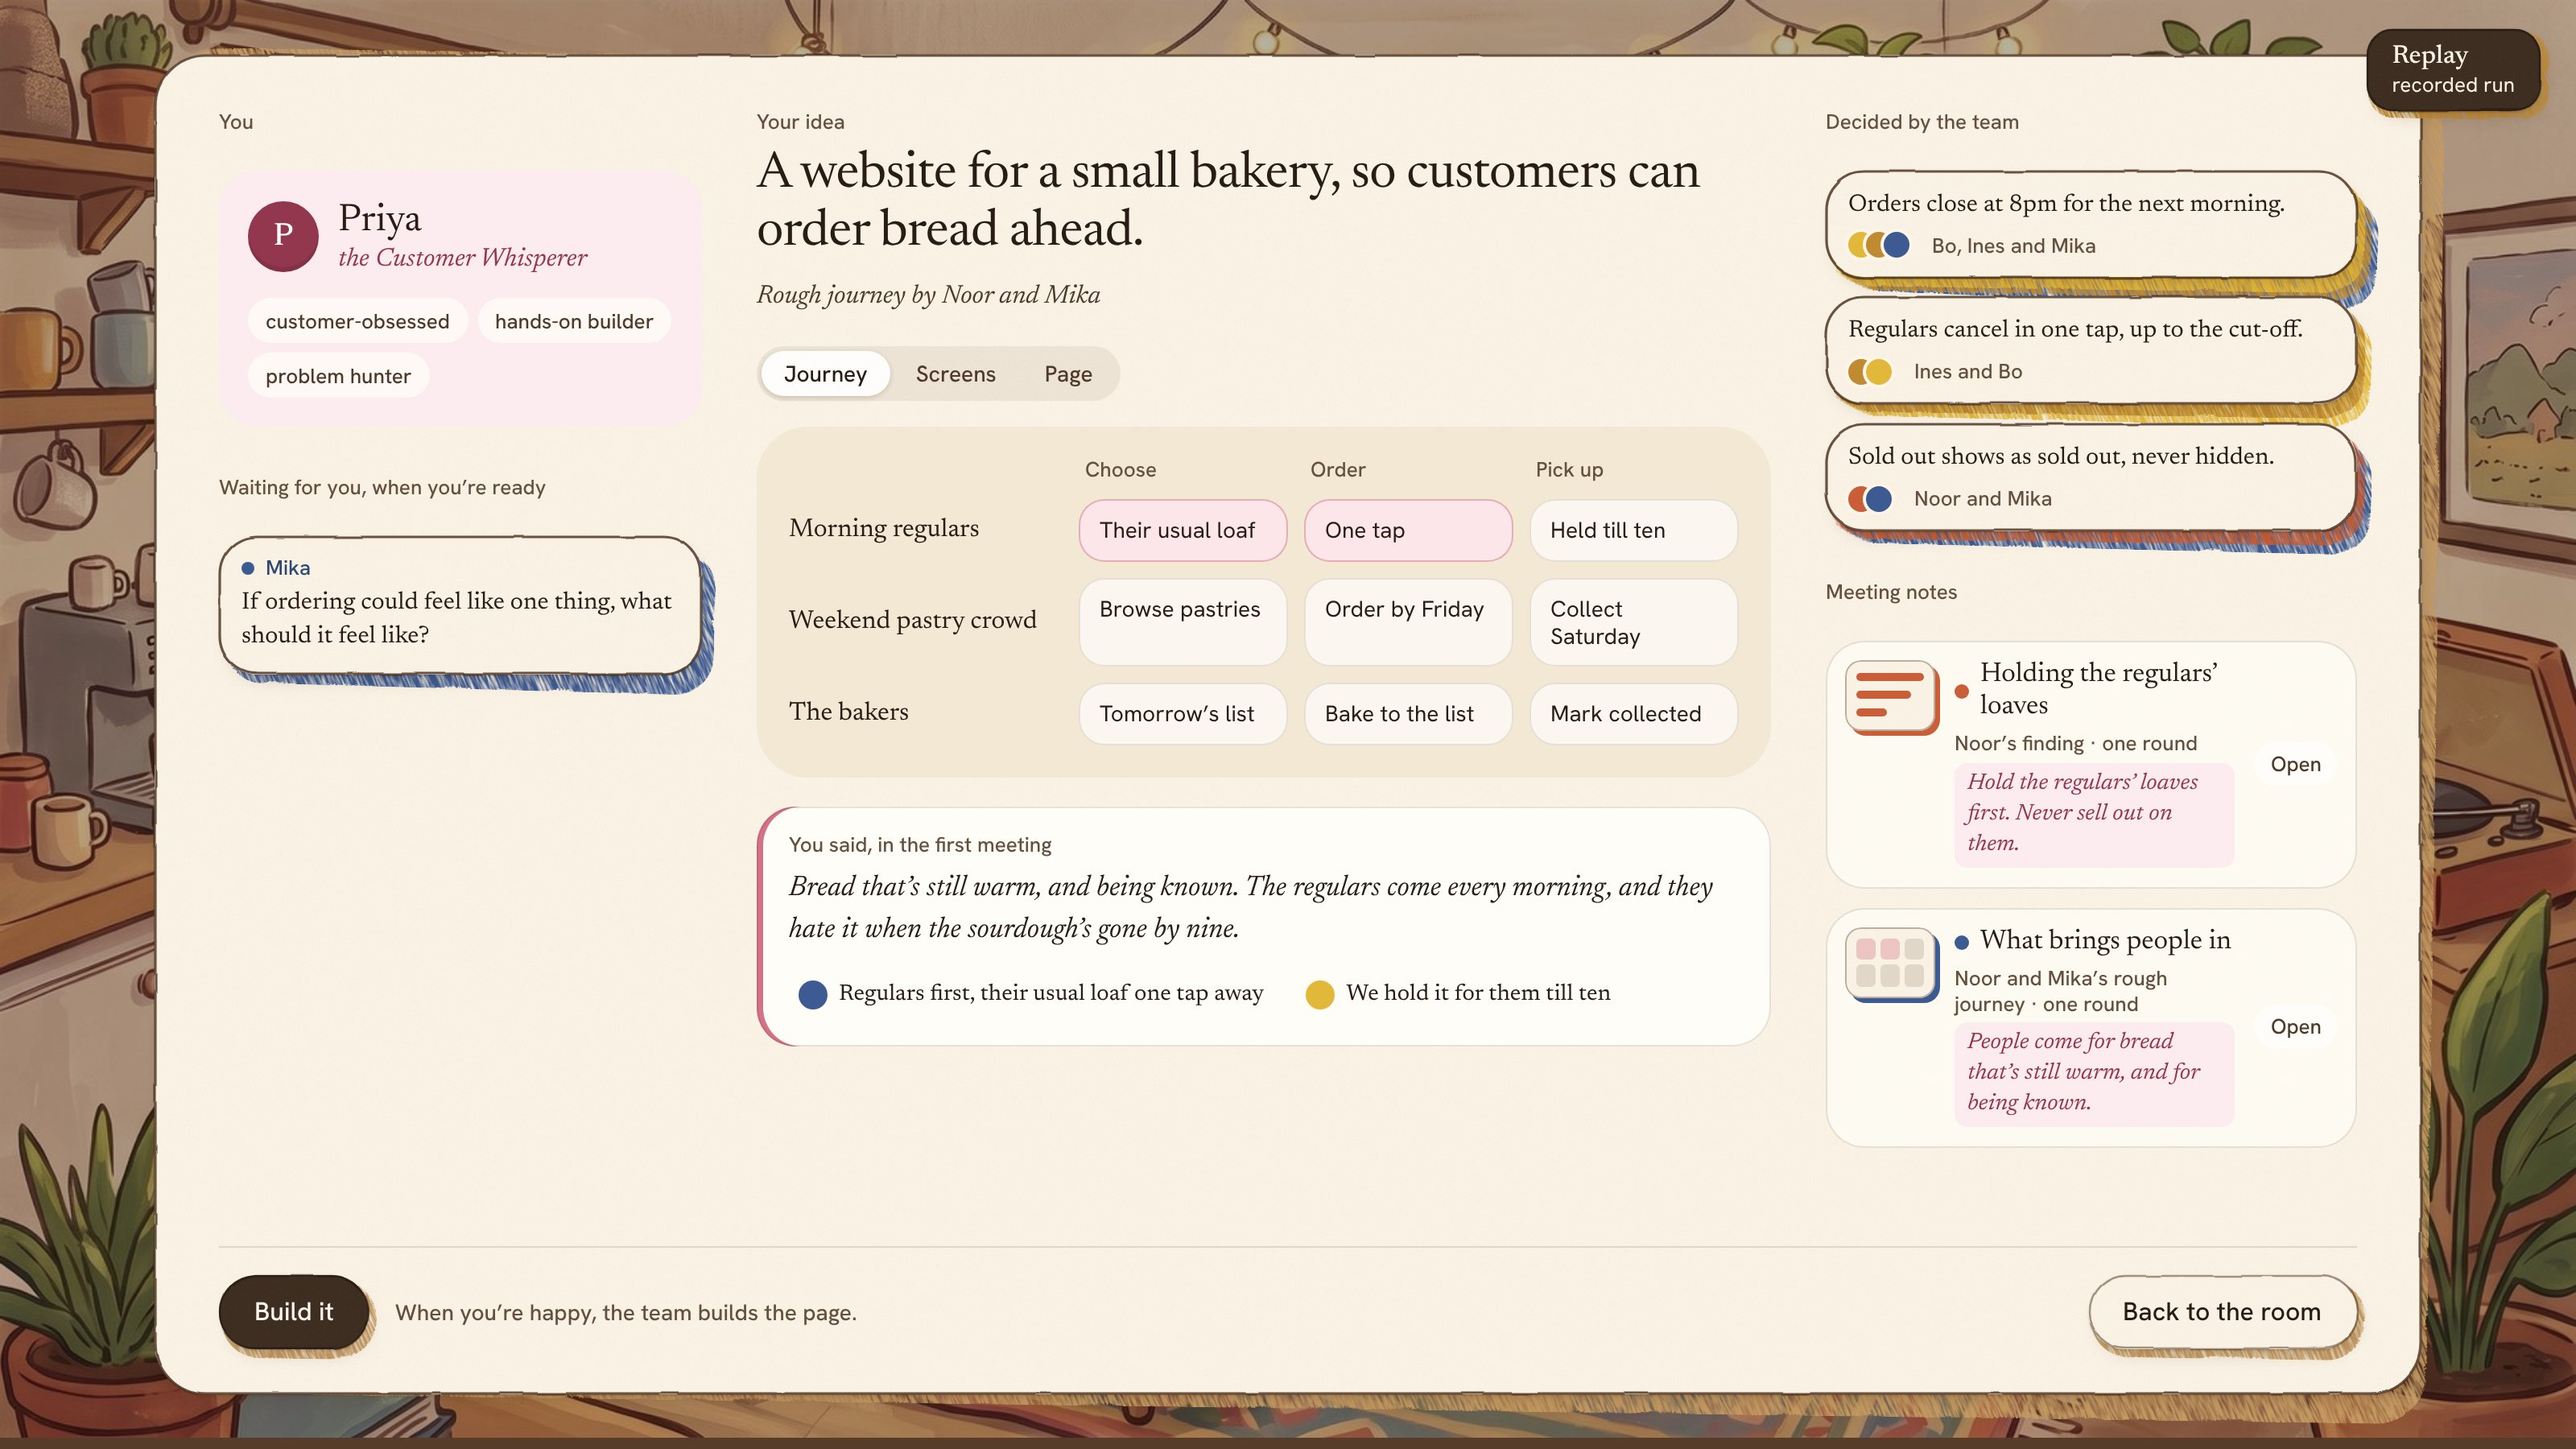
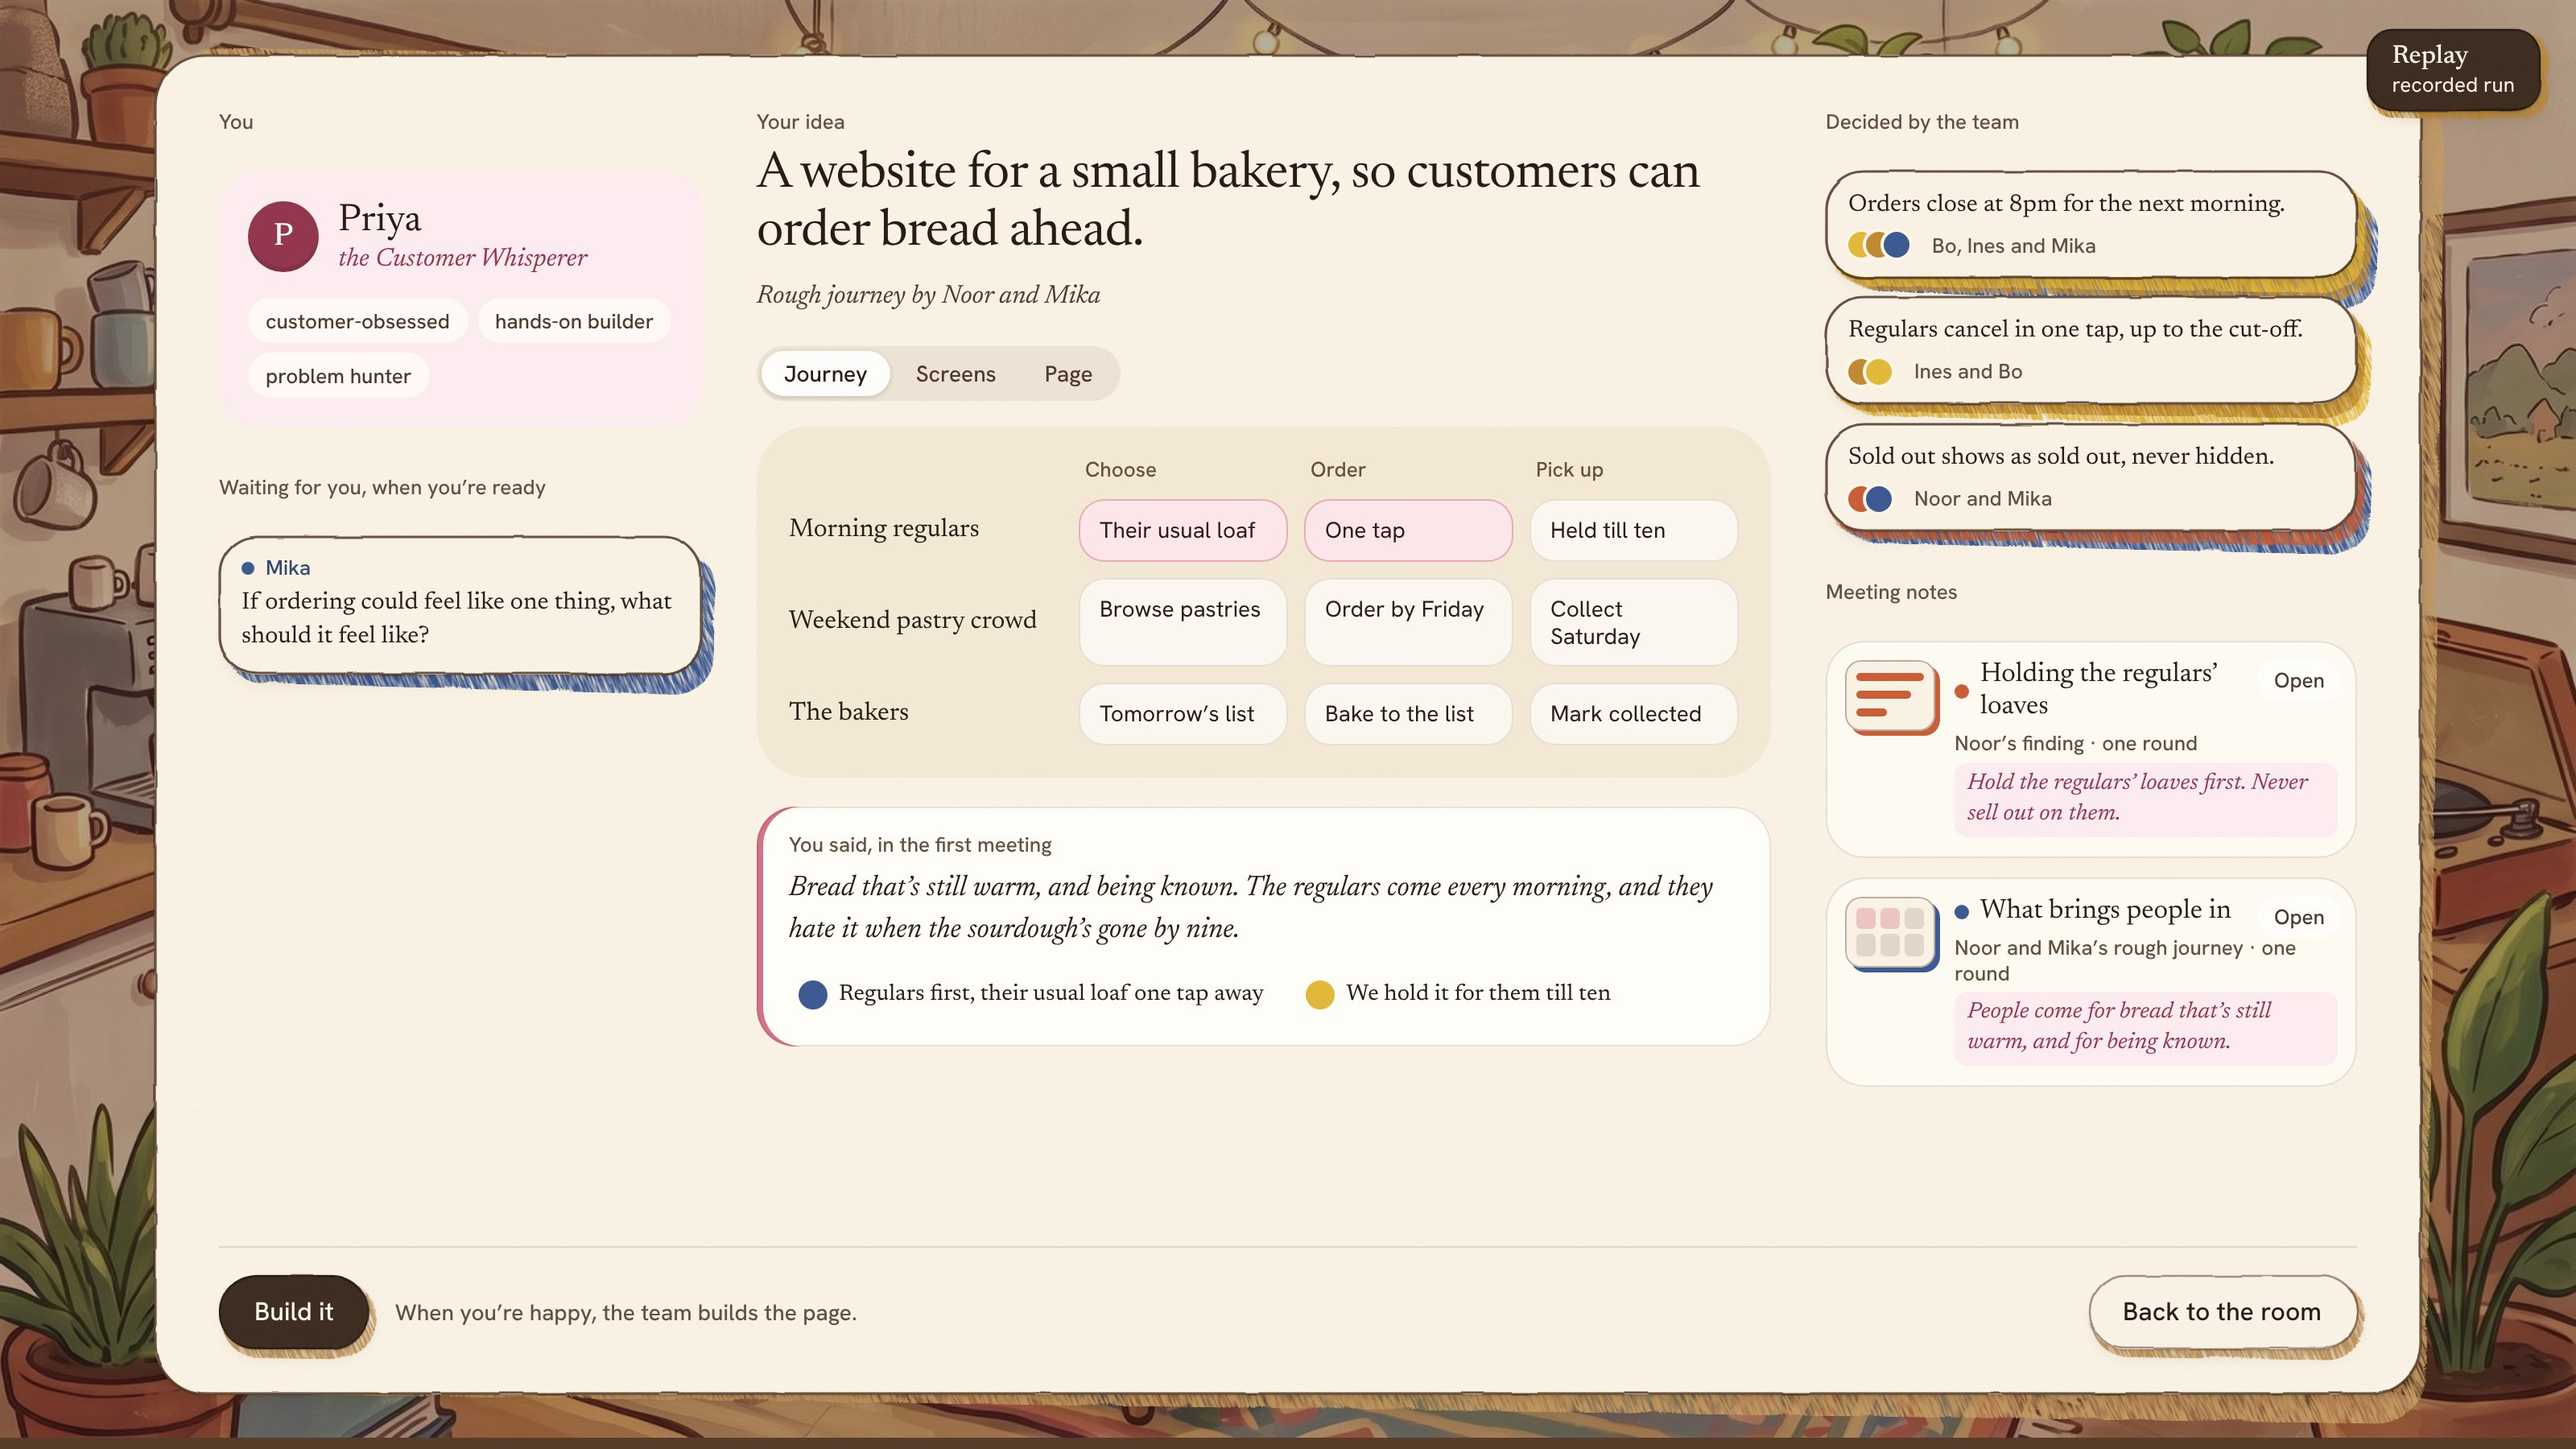
Meeting notes rows: Open sits top right, more room for her words
Claude-Session: https://claude.ai/code/session_013ka3w4mYCjZQ4UZXpyjYjQ

Changed region(s): [[0.7188, 0.56, 0.9062, 0.7778], [0.875, 0.5289, 0.9062, 0.56]]

diff --git a/public/looks/comps/her-seat-ink.html b/public/looks/comps/her-seat-ink.html
@@ -107,11 +107,12 @@ html, body { margin: 0; background: #2B1F17; }
 .mnote .thumb.journey { grid-template-columns: repeat(3, 1fr); } .mnote .thumb.journey i { border-radius: 3px; background: rgba(212,114,136,.35); }
 .mnote .thumb.journey i:nth-child(n+3) { background: rgba(84,58,38,.14); }
 .mnote .thumb.finding i { height: 5px; border-radius: 3px; background: var(--c); align-self: center; } .mnote .thumb.finding i:nth-child(2) { width: 80%; } .mnote .thumb.finding i:nth-child(3) { width: 45%; }
-.mnote { grid-template-columns: 56px 1fr auto !important; }
+.mnote { position: relative; }
+.mnote .title { padding-right: 52px; }
 .mnote .mt { display: flex; flex-direction: column; gap: 4px; min-width: 0; }
 .mnote .title { display: flex; align-items: center; gap: 7px; font: 400 17px/1.2 var(--ip-serif); }
 .mnote .title .cd { width: 9px; height: 9px; border-radius: 50%; background: var(--c); flex: none; }
-.mnote .open { align-self: center; font: 500 13px/1 var(--ip-sans); color: var(--ip-ink-2); padding: 7px 10px; border-radius: 999px; background: var(--ip-inset); }
+.mnote .open { position: absolute; right: 10px; top: 11px; font: 500 13px/1 var(--ip-sans); color: var(--ip-ink-2); padding: 7px 10px; border-radius: 999px; background: var(--ip-inset); }
 .mopen .reword { margin-left: 8px; border: 0; background: none; padding: 0; font: 500 13px/1 var(--ip-sans); color: var(--ip-ink-2); text-decoration: underline; text-underline-offset: 3px; cursor: pointer; }
 .mopen .changed { width: 100%; }
 .mopen .changed ul { margin: 6px 0 0; padding: 0; list-style: none; display: grid; gap: 6px; }
